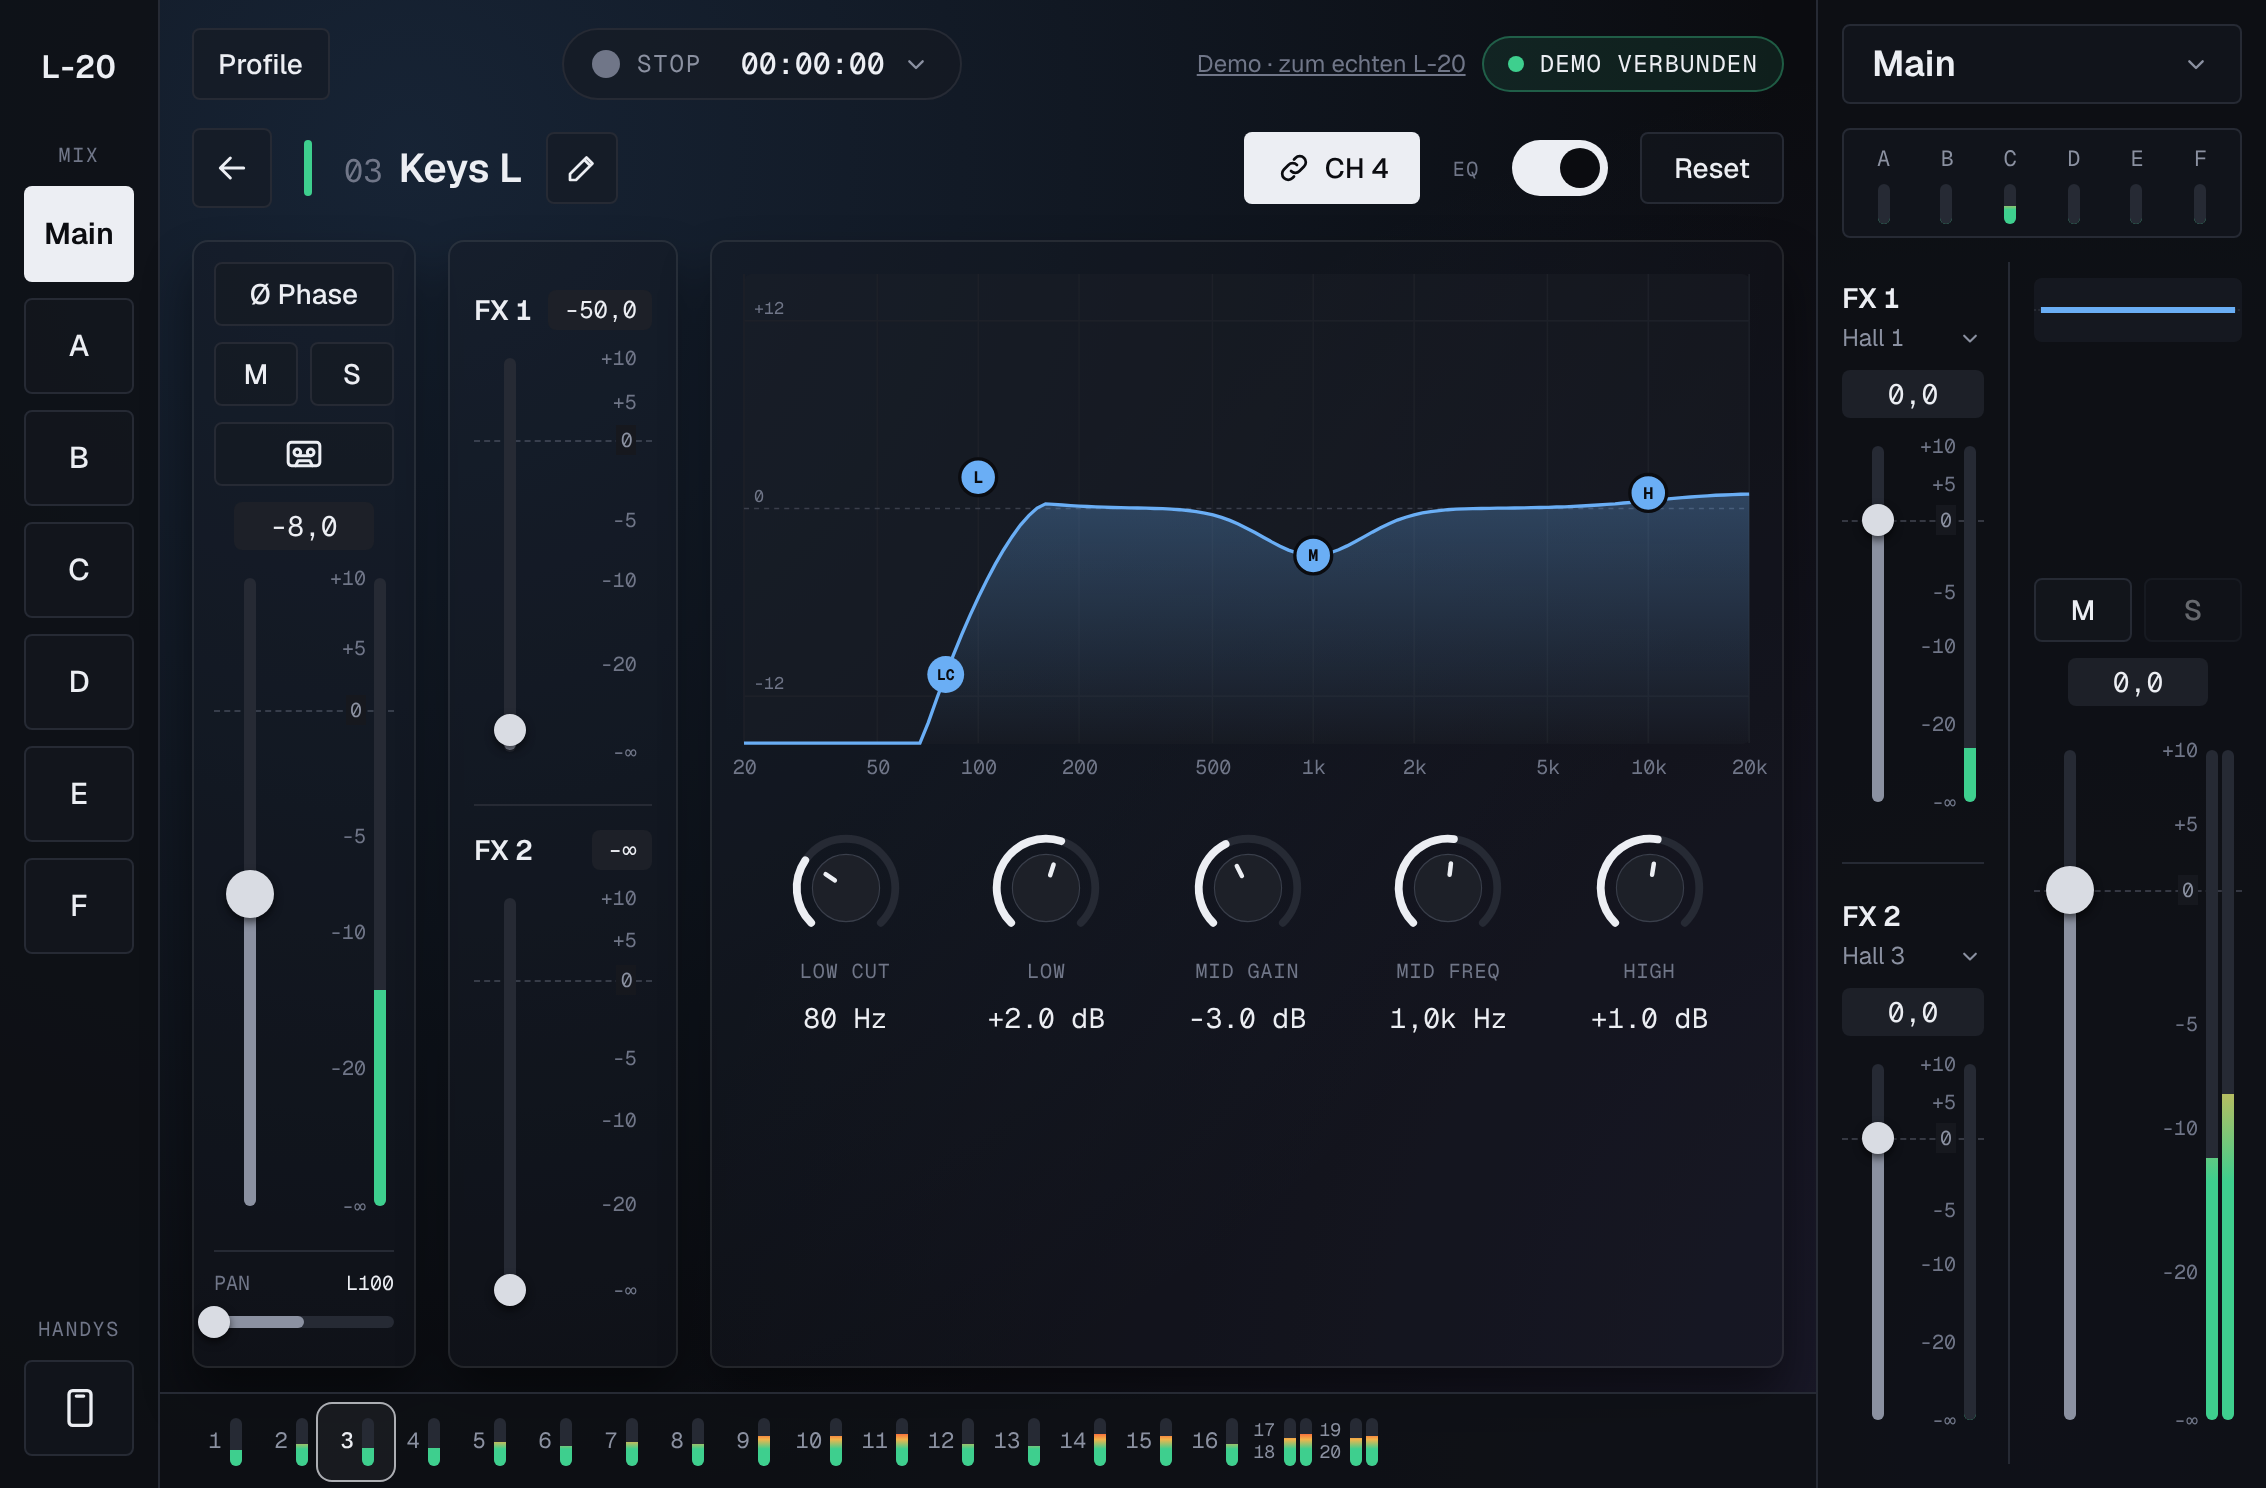
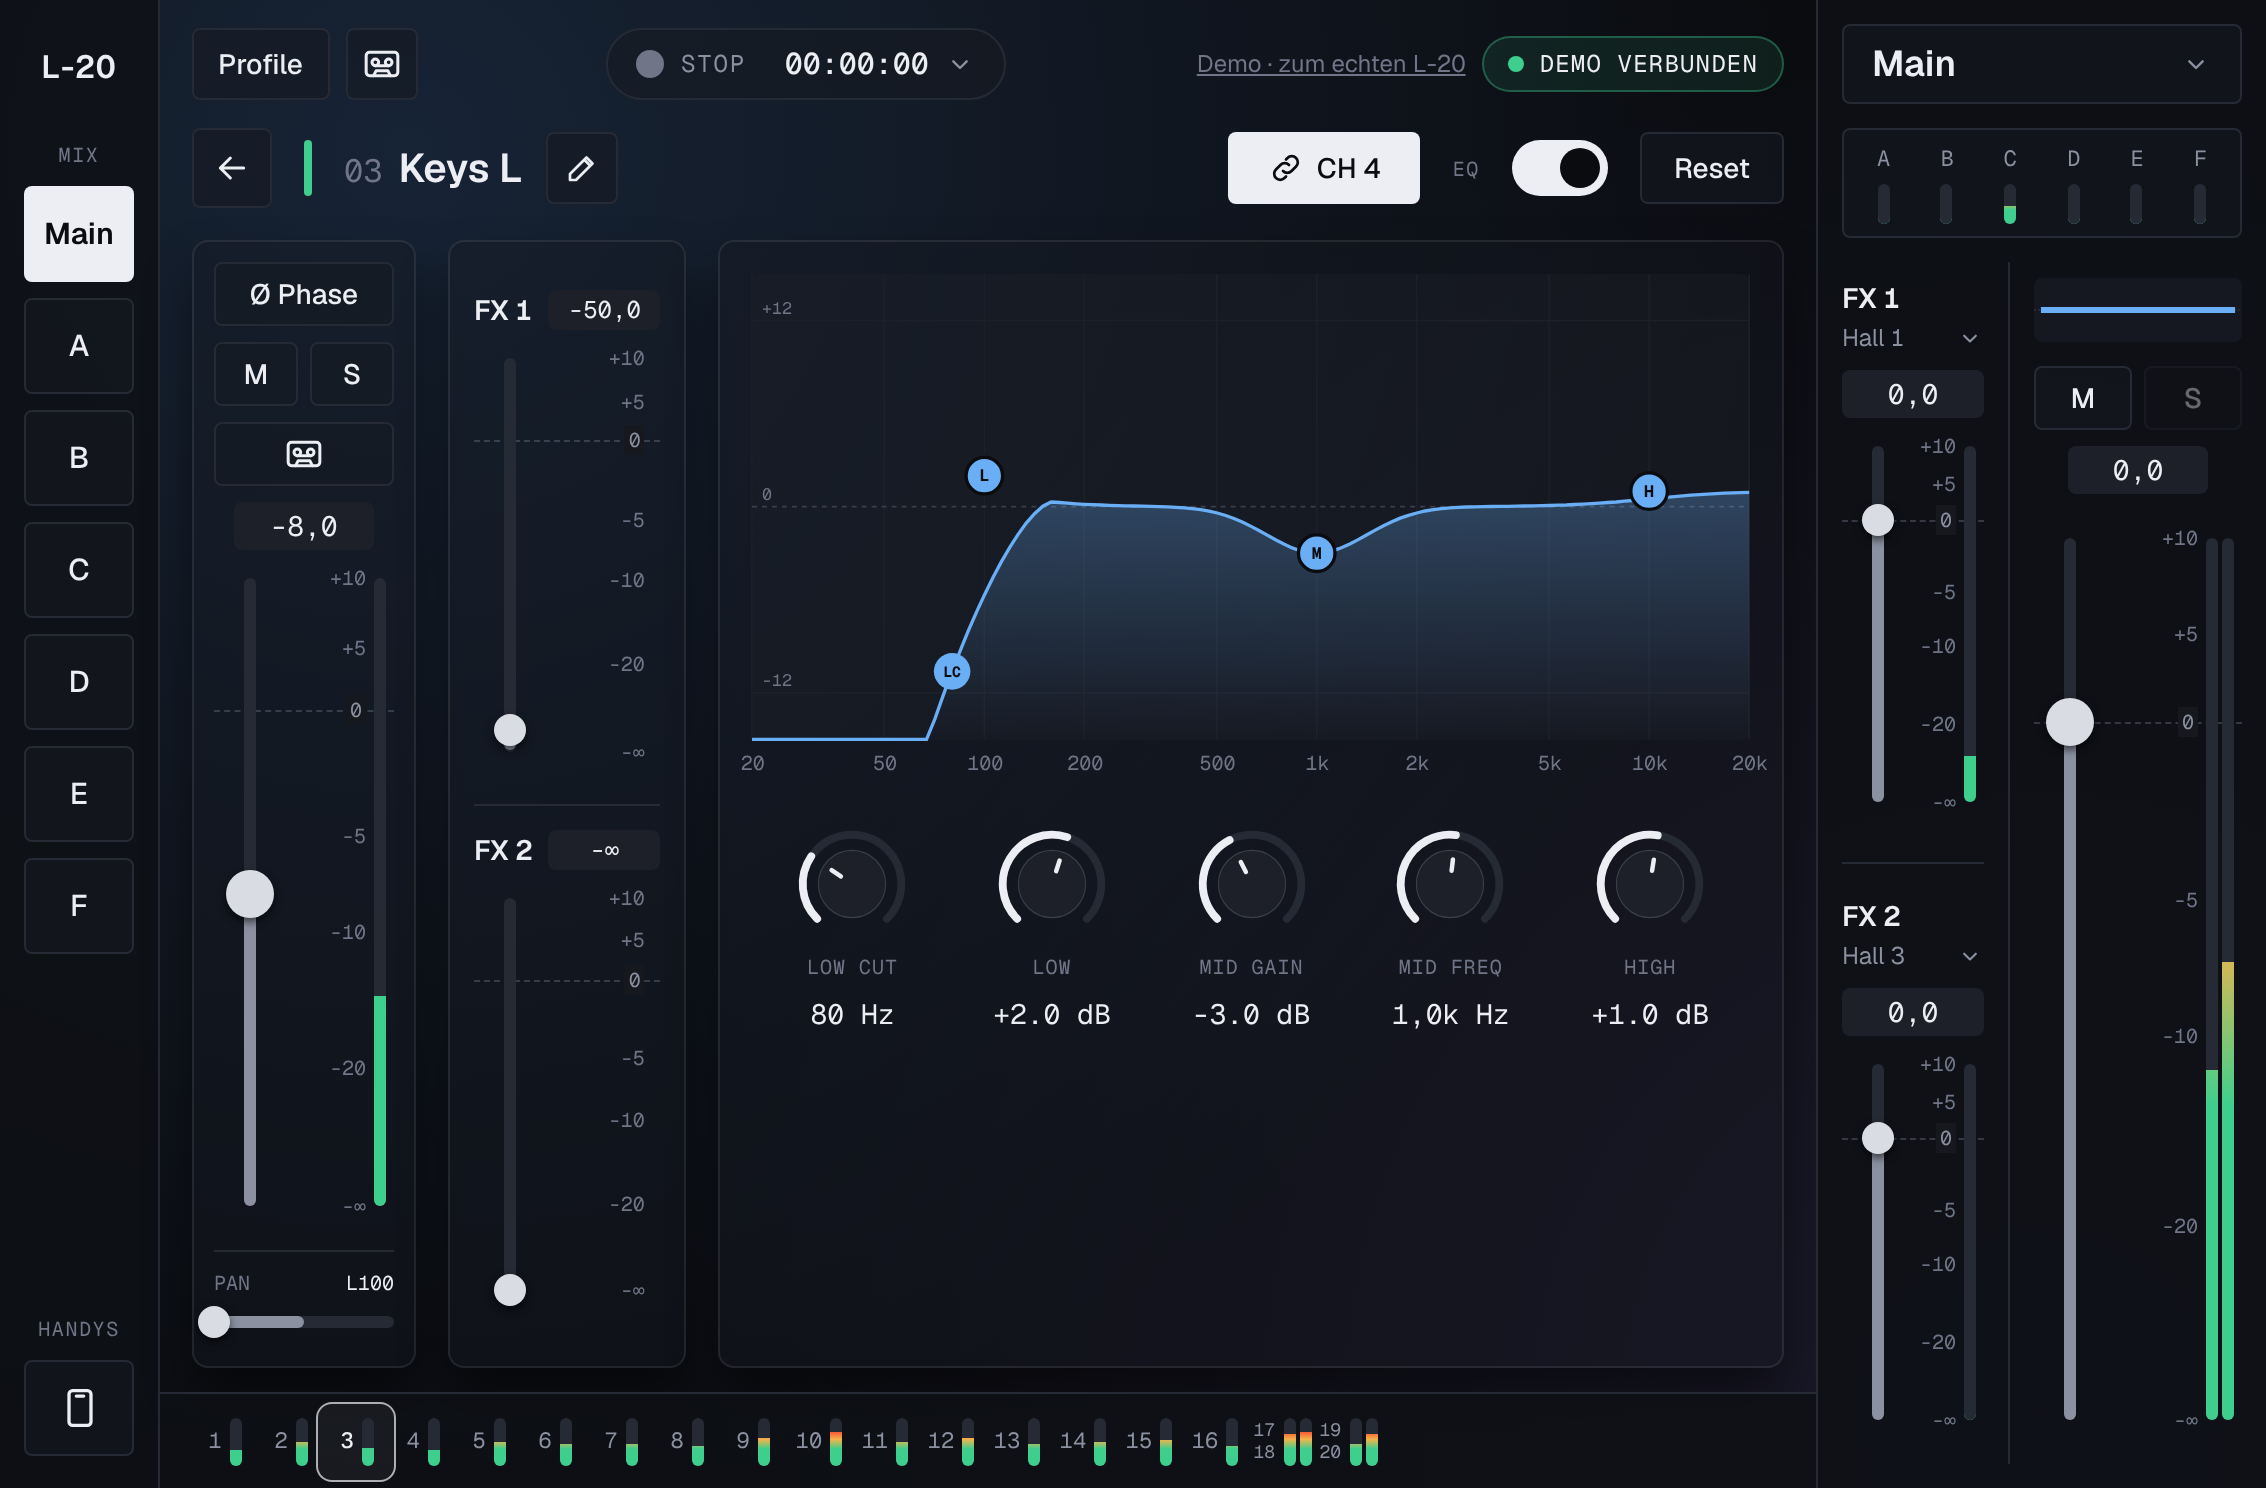
Kanal-Detail: Link-Knopf feste Breite, FX-Send-Wert feste Breite
Claude-Session: https://claude.ai/code/session_01KbLEHxzsxzao1e8PDLg9ed

diff --git a/src/ui/screens/ChannelDetail.tsx b/src/ui/screens/ChannelDetail.tsx
@@ -77,13 +77,13 @@ export function ChannelDetail({ ch, onBack }: { ch: number; onBack: () => void }
         <div className="-mx-2 flex-1" />
         <Btn
           kind={partner ? 'on' : 'plain'}
-          className={cn('h-9 px-4', fixed && 'hidden')}
-          aria-label={partner ? `Stereo-Link mit Kanal ${partner.id} lösen` : undefined}
+          className={cn('h-9 w-24', fixed && 'hidden')}
+          aria-label={partner ? `Stereo-Link mit Kanal ${partner.id} lösen` : 'Stereo-Link'}
           disabled={!link}
           onClick={() => link && dispatch(link)}
         >
           <Icon name="link" />
-          {partner ? `CH ${partner.id}` : 'Stereo-Link'}
+          {partner ? `CH ${partner.id}` : 'Link'}
         </Btn>
         <Label>EQ</Label>
         <button
@@ -182,7 +182,7 @@ export function ChannelDetail({ ch, onBack }: { ch: number; onBack: () => void }
               <div key={mix} className="flex min-h-0 flex-1 flex-col py-3">
                 <div className="flex items-center justify-between gap-2">
                   <span className="text-sm font-semibold">{mix === 'fx1' ? 'FX 1' : 'FX 2'}</span>
-                  <ValueBox className="text-xs">{formatDb(c.sends[mix].level)}</ValueBox>
+                  <ValueBox className="w-14 text-xs">{formatDb(c.sends[mix].level)}</ValueBox>
                 </div>
                 <Fader
                   db={c.sends[mix].level}
